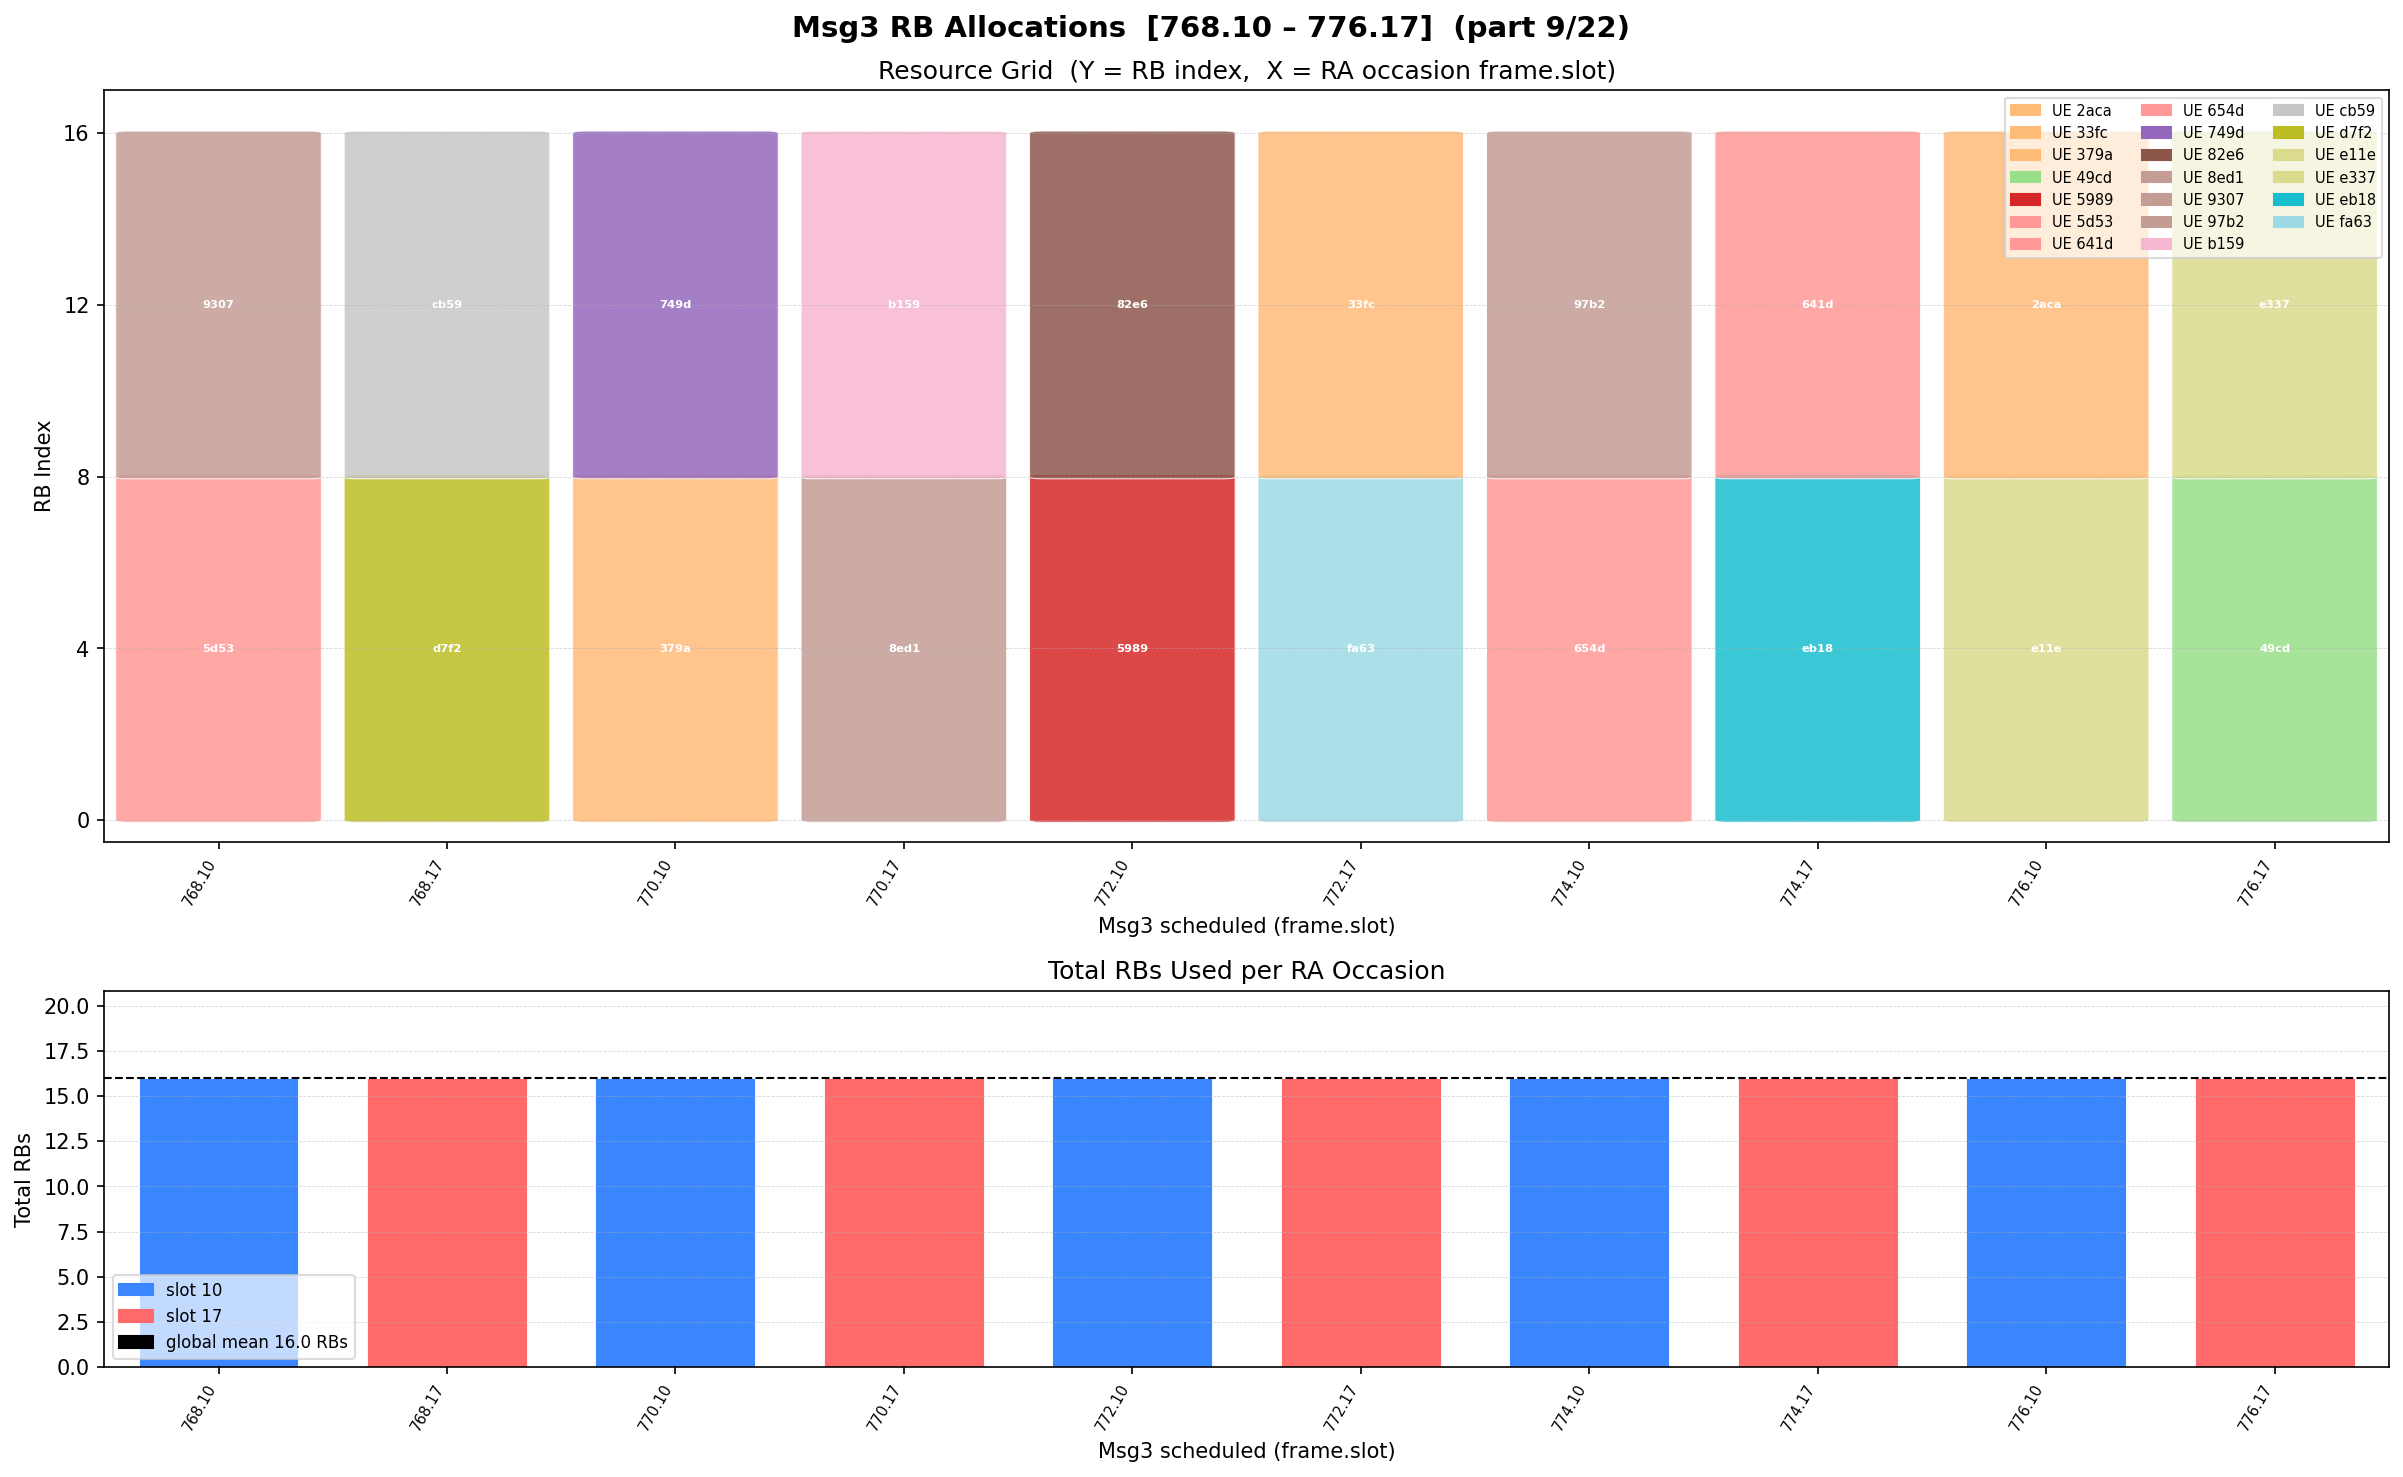
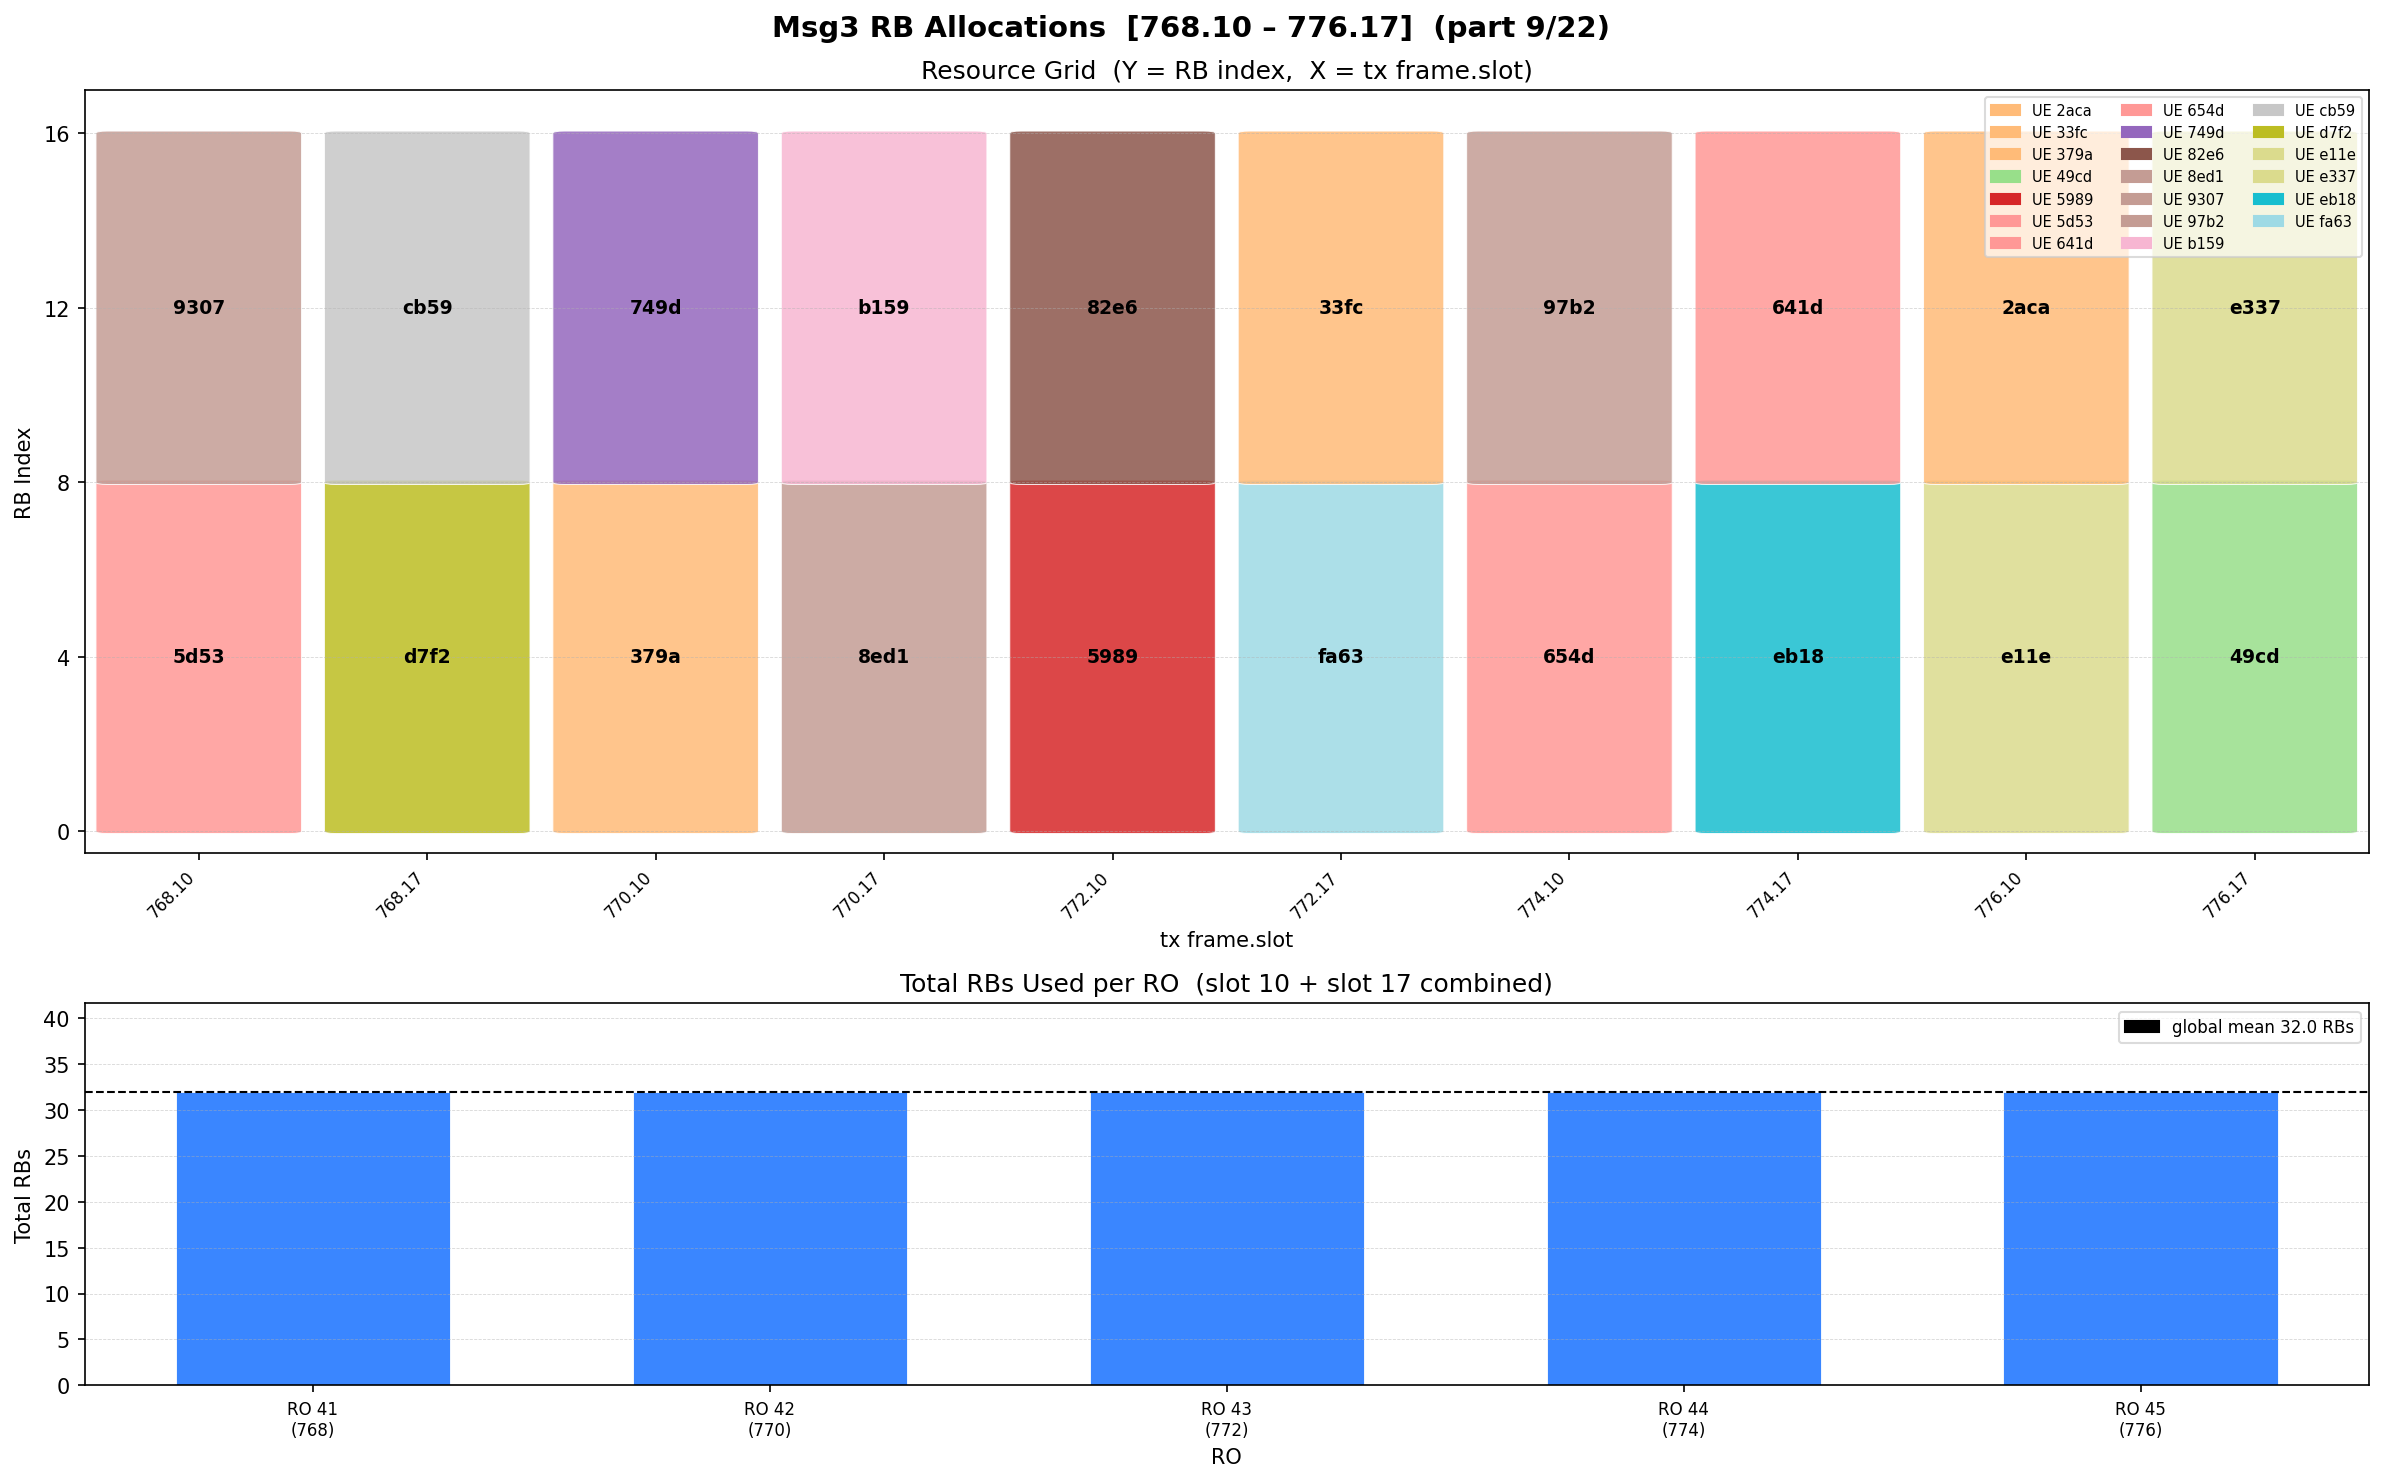
add: msg3 rbs result

diff --git a/0424/parse_msg3_rbs.py b/0424/parse_msg3_rbs.py
@@ -1,7 +1,7 @@
 #!/usr/bin/env python3
 """
 Parse Msg3 scheduled RB allocations from detect-preambles.log,
-export to CSV, and plot resource grid + per-occasion RB usage.
+export to CSV, and plot resource grid + per-RO RB usage.
 """
 
 import re
@@ -58,80 +58,78 @@ def export_csv(records: list[dict], path: Path):
     print(f"Saved {len(records)} rows → {path}")
 
 
-def build_occasion_summary(records: list[dict]) -> list[dict]:
-    """Group by (tx_frame, tx_slot, tda) and compute total RBs used."""
+def build_ro_summary(records: list[dict]) -> list[dict]:
+    """Group by tx_frame (one RO per frame) and compute total RBs used."""
     grouped = defaultdict(list)
     for r in records:
-        key = (r["tx_frame"], r["tx_slot"], r["tda"])
-        grouped[key].append(r)
+        grouped[r["tx_frame"]].append(r)
 
     summary = []
-    for (frame, slot, tda), ues in sorted(grouped.items()):
+    for frame, ues in sorted(grouped.items()):
         total_rbs = sum(u["rb_count"] for u in ues)
-        min_start  = min(u["rb_start"] for u in ues)
-        max_end    = max(u["rb_end"] for u in ues)
         summary.append({
             "tx_frame":  frame,
-            "tx_slot":   slot,
-            "tda":       tda,
             "ue_count":  len(ues),
             "total_rbs": total_rbs,
-            "rb_min":    min_start,
-            "rb_max":    max_end,
-            "ues":       ues,
         })
     return summary
 
 
+# number of frame.slot occasions (columns in resource grid) per figure
 SLOTS_PER_FIGURE = 10
 
 
-def plot(records: list[dict], summary: list[dict]):
+def plot(records: list[dict]):
     # ── colour palette per UE ───────────────────────────────────────────────
     ue_ids   = sorted({r["ue_id"] for r in records})
     cmap     = plt.cm.get_cmap("tab20", len(ue_ids))
     ue_color = {uid: cmap(i) for i, uid in enumerate(ue_ids)}
 
-    slot_palette = ["#3a86ff", "#ff6b6b", "#06d6a0", "#ffd166", "#ef476f", "#118ab2"]
-    unique_slots = sorted({r["tx_slot"] for r in records})
-    slot_colors  = {sl: slot_palette[i % len(slot_palette)] for i, sl in enumerate(unique_slots)}
-    max_rb      = max(r["rb_end"] for r in records) + 2
-    all_totals  = [s["total_rbs"] for s in summary]
-    global_mean = np.mean(all_totals)
+    max_rb = max(r["rb_end"] for r in records) + 2
 
-    # ── unique tx occasions (sorted by time) ────────────────────────────────
+    # ── per-RO totals (for bar chart) ───────────────────────────────────────
+    ro_total: dict[int, int] = defaultdict(int)
+    for r in records:
+        ro_total[r["tx_frame"]] += r["rb_count"]
+    all_ro_totals = list(ro_total.values())
+    global_mean   = np.mean(all_ro_totals)
+
+    # ── unique tx occasions (frame.slot) for resource grid ──────────────────
     occasions = sorted({(r["tx_frame"], r["tx_slot"]) for r in records})
-
-    # build fast lookup: occasion → summary entry
-    summary_map = {(s["tx_frame"], s["tx_slot"]): s for s in summary}
-
-    # ── iterate over 50-occasion chunks ─────────────────────────────────────
     n_chunks = (len(occasions) + SLOTS_PER_FIGURE - 1) // SLOTS_PER_FIGURE
     for chunk_idx in range(n_chunks):
         chunk_occ   = occasions[chunk_idx * SLOTS_PER_FIGURE:(chunk_idx + 1) * SLOTS_PER_FIGURE]
         chunk_set   = set(chunk_occ)
-        occ_label   = [f"{f}.{s}" for f, s in chunk_occ]
         local_index = {o: i for i, o in enumerate(chunk_occ)}
+        c_labels    = [f"{f}.{s}" for f, s in chunk_occ]
 
         chunk_records = [r for r in records if (r["tx_frame"], r["tx_slot"]) in chunk_set]
-        chunk_summary = [summary_map[o] for o in chunk_occ if o in summary_map]
+
+        # ROs that appear in this chunk (unique tx_frames, in order of first appearance)
+        seen_frames: list[int] = []
+        for f, _ in chunk_occ:
+            if f not in seen_frames:
+                seen_frames.append(f)
+        ro_labels = [f"RO {chunk_idx * (SLOTS_PER_FIGURE // 2) + i + 1}\n({f})"
+                     for i, f in enumerate(seen_frames)]
 
         fig, axes = plt.subplots(
             2, 1,
-            figsize=(max(16, len(chunk_occ) * 0.35), 10),
+            figsize=(max(16, len(chunk_occ) * 0.8), 10),
             gridspec_kw={"height_ratios": [2, 1]},
         )
-        title_range = f"{occ_label[0]} – {occ_label[-1]}"
+        title_start = c_labels[0]
+        title_end   = c_labels[-1]
         fig.suptitle(
-            f"Msg3 RB Allocations  [{title_range}]  "
+            f"Msg3 RB Allocations  [{title_start} – {title_end}]  "
             f"(part {chunk_idx + 1}/{n_chunks})",
             fontsize=14, fontweight="bold",
         )
 
-        # ── TOP: Resource Grid ───────────────────────────────────────────────
+        # ── TOP: Resource Grid (frame.slot columns) ──────────────────────────
         ax1 = axes[0]
-        ax1.set_title("Resource Grid  (Y = RB index,  X = RA occasion frame.slot)")
-        ax1.set_xlabel("Msg3 scheduled (frame.slot)")
+        ax1.set_title("Resource Grid  (Y = RB index,  X = tx frame.slot)")
+        ax1.set_xlabel("tx frame.slot")
         ax1.set_ylabel("RB Index")
         ax1.set_xlim(-0.5, len(chunk_occ) - 0.5)
         ax1.set_ylim(-0.5, max_rb)
@@ -148,11 +146,10 @@ def plot(records: list[dict], summary: list[dict]):
             ax1.add_patch(rect)
             ax1.text(xi, r["rb_start"] + r["rb_count"] / 2,
                      r["ue_id"], ha="center", va="center",
-                     fontsize=5.5, color="white", fontweight="bold")
+                     fontsize=9, color="black", fontweight="bold")
 
-        step = max(1, len(chunk_occ) // 30)
-        ax1.set_xticks(range(0, len(chunk_occ), step))
-        ax1.set_xticklabels(occ_label[::step], rotation=60, ha="right", fontsize=7)
+        ax1.set_xticks(range(len(chunk_occ)))
+        ax1.set_xticklabels(c_labels, rotation=45, ha="right", fontsize=8)
         ax1.grid(axis="y", linestyle="--", linewidth=0.4, alpha=0.5)
         ax1.set_yticks(range(0, max_rb + 1, 4))
 
@@ -161,26 +158,24 @@ def plot(records: list[dict], summary: list[dict]):
         ax1.legend(handles=patches, loc="upper right", fontsize=7,
                    ncol=max(1, len(chunk_ue_ids) // 6), framealpha=0.7)
 
-        # ── BOTTOM: Total RBs bar chart ──────────────────────────────────────
+        # ── BOTTOM: Total RBs per RO (one bar per tx_frame) ─────────────────
         ax2 = axes[1]
-        ax2.set_title("Total RBs Used per RA Occasion")
-        ax2.set_xlabel("Msg3 scheduled (frame.slot)")
+        ax2.set_title("Total RBs Used per RO  (slot 10 + slot 17 combined)")
+        ax2.set_xlabel("RO")
         ax2.set_ylabel("Total RBs")
 
-        xs         = [local_index[(s["tx_frame"], s["tx_slot"])] for s in chunk_summary]
-        totals     = [s["total_rbs"] for s in chunk_summary]
-        bar_colors = [slot_colors.get(s["tx_slot"], "gray") for s in chunk_summary]
+        ro_xs     = list(range(len(seen_frames)))
+        ro_totals = [ro_total[f] for f in seen_frames]
 
-        ax2.bar(xs, totals, color=bar_colors, width=0.7, edgecolor="white", linewidth=0.4)
-        ax2.set_xlim(-0.5, len(chunk_occ) - 0.5)
-        ax2.set_ylim(0, max(all_totals) * 1.3)
-        ax2.set_xticks(range(0, len(chunk_occ), step))
-        ax2.set_xticklabels(occ_label[::step], rotation=60, ha="right", fontsize=7)
-        ax2.axhline(y=global_mean, color="black", linestyle="--",
-                    linewidth=1, label=f"Global mean = {global_mean:.1f} RBs")
+        ax2.bar(ro_xs, ro_totals, color="#3a86ff", width=0.6,
+                edgecolor="white", linewidth=0.4)
+        ax2.set_xlim(-0.5, len(seen_frames) - 0.5)
+        ax2.set_ylim(0, max(all_ro_totals) * 1.3)
+        ax2.set_xticks(ro_xs)
+        ax2.set_xticklabels(ro_labels, rotation=0, ha="center", fontsize=8)
+        ax2.axhline(y=global_mean, color="black", linestyle="--", linewidth=1)
         ax2.grid(axis="y", linestyle="--", linewidth=0.4, alpha=0.5)
-        slot_patches = [mpatches.Patch(color=c, label=f"slot {s}") for s, c in slot_colors.items()]
-        ax2.legend(handles=slot_patches + [
+        ax2.legend(handles=[
             mpatches.Patch(color="black", label=f"global mean {global_mean:.1f} RBs")
         ], fontsize=8, framealpha=0.7)
 
@@ -201,16 +196,15 @@ def main():
 
     export_csv(records, CSV_FILE)
 
-    summary = build_occasion_summary(records)
-    n_occasions = len(summary)
-    n_figures   = (n_occasions + SLOTS_PER_FIGURE - 1) // SLOTS_PER_FIGURE
-    print(f"Unique RA occasions: {n_occasions}  →  {n_figures} figures "
-          f"({SLOTS_PER_FIGURE} slots each)")
-    print(f"Total RBs per occasion — min:{min(s['total_rbs'] for s in summary)} "
+    summary = build_ro_summary(records)
+    n_ros     = len(summary)
+    n_figures = (n_ros * 2 + SLOTS_PER_FIGURE - 1) // SLOTS_PER_FIGURE
+    print(f"Unique ROs: {n_ros}  →  {n_figures} figures  ({SLOTS_PER_FIGURE} slots each)")
+    print(f"Total RBs per RO — min:{min(s['total_rbs'] for s in summary)} "
           f"max:{max(s['total_rbs'] for s in summary)} "
           f"mean:{sum(s['total_rbs'] for s in summary)/len(summary):.1f}")
 
-    plot(records, summary)
+    plot(records)
 
 
 if __name__ == "__main__":
